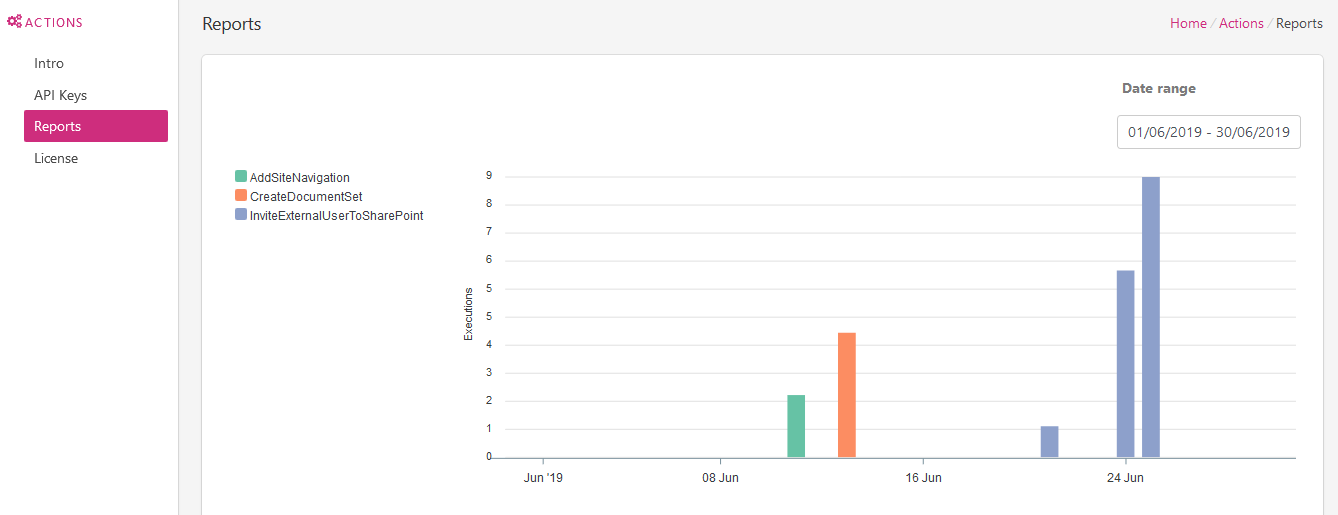
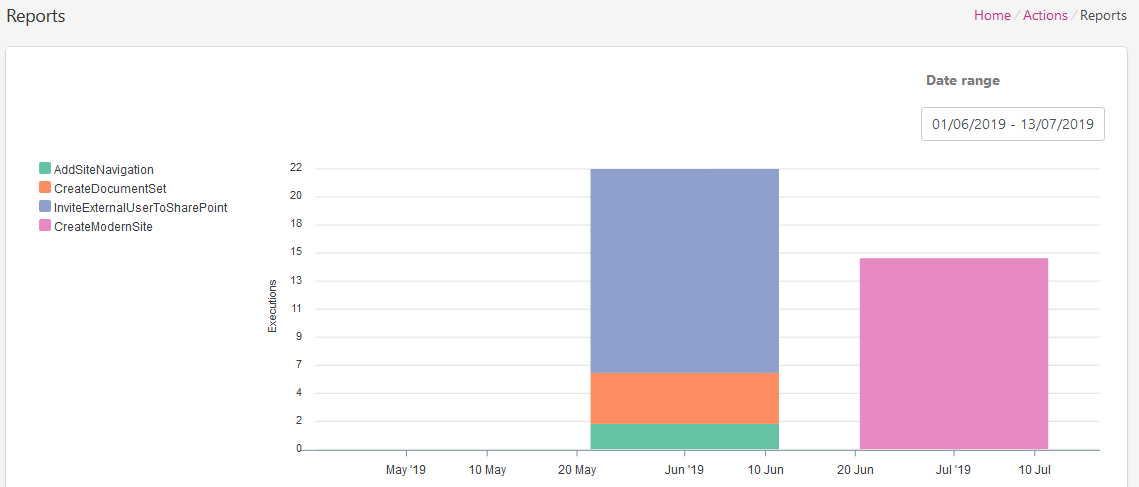
corrected api keys and reports

diff --git a/source/flow/how-tos/sharepoint/how-to-manage-quick-launch-and-top-navigation-items.rst b/source/flow/how-tos/sharepoint/how-to-manage-quick-launch-and-top-navigation-items.rst
@@ -11,7 +11,7 @@ You can add/remove a navigation node to/from 2 places: Top navigation bar or Qui
 
 .. image:: ../../../_static/img/flow/how-tos/sharepoint/place-selection.png
 
-
+Let's take first example: adding a nvigation node
 For example, we have a situation where during a day people work with documents in SharePoint Document library. To work with some document a user takes it to work and mark it as check-out, but at the end of the day, every document should be checked-in back.
 
 For this case, I will use *‘Get files (properties only)‘* from SharePoint Connector for getting properties of documents that need to be checked-in. I will also use `Check In SharePoint Document <../../actions/sharepoint-processing.html#check-in-sharepoint-document>`_ from Plumasail SP connector, which is a part of `Plumsail Actions <https://plumsail.com/actions>`_ for each document that will be found on the first step.

diff --git a/source/user-guide/api-keys.rst b/source/user-guide/api-keys.rst
@@ -1,12 +1,14 @@
 API Keys
 =========================
 
-API keys page contains all created API keys.
+API keys page contains all created API keys. 
+API key is needed to authenticate your  `REST <https://plumsail.com/docs/documents/v1.x/getting-started/use-as-rest-api.html>`_ and  `Microsoft Flow calls <https://plumsail.com/docs/documents/v1.x/getting-started/use-from-flow.html>`_ .
+
 
 .. image:: ../_static/img/general/actions-api-keys.png
-   :alt: Documents email notifications
+   :alt: Actions email notifications
 
 You can create as many keys as you need, for example, for using with different MS Flow accounts. 
 All the keys are tied to you plumsail account.
 
-If you don't need a key anymore you can delete it, please make sure that no ms flows use the key.
+If you don't need a key anymore you can delete it, please make sure that the key is not used anymore.

diff --git a/source/user-guide/reports.rst b/source/user-guide/reports.rst
@@ -2,7 +2,16 @@ Reports
 =======
 
 You can find usage statistic on the Reports page. It allows selecting specific interval or a single day.
-Reports show statistic for all Documents actions by default but you can disable some actions if it's needed.
+For example, to find out what Documents actions were used from June 01, 2019 until July 13, 2019 you can select the range in the calendar
+
+.. image:: ../_static/img/general/actions-reports-calendar.png
+   :alt: Actions reports
+
+Reports show statistic for all Actions by default but you can disable some actions if it's needed.
+To disable an action just select it in the actions list.
 
 .. image:: ../_static/img/general/actions-reports.png
    :alt: Actions reports
+
+.. image:: ../_static/img/general/actions-reports1.png
+   :alt: Actions with disabled actions
